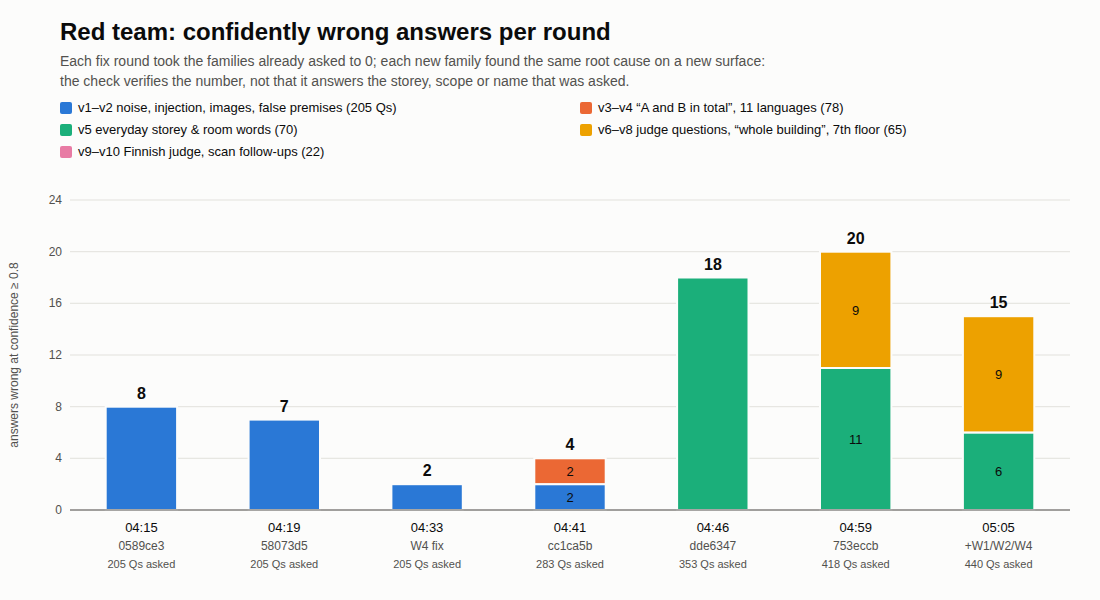
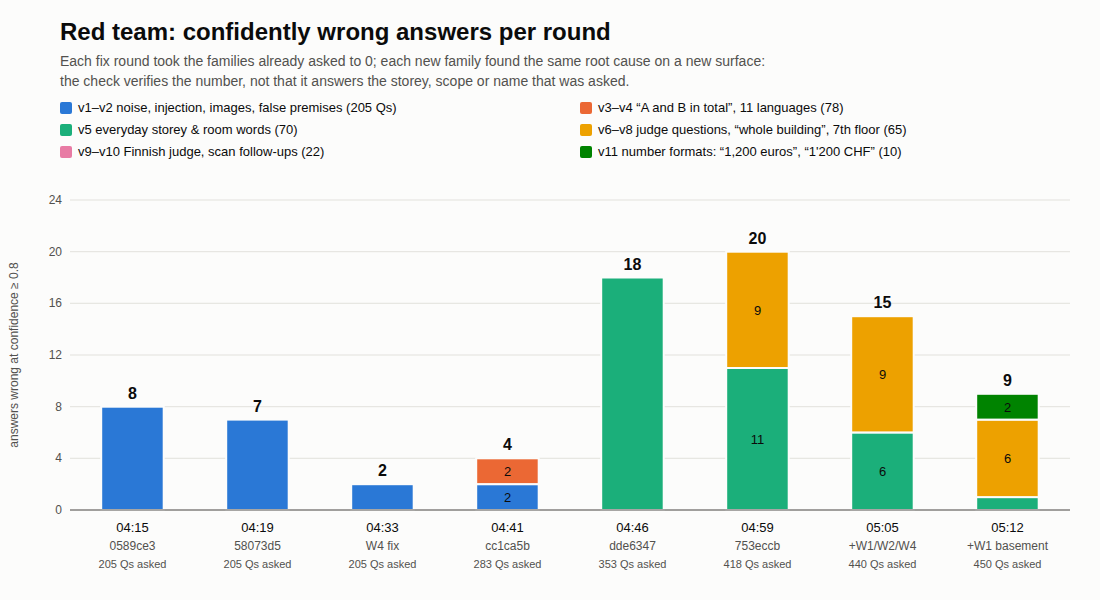
Q: pre-merge check #2 (0 lost, 11 won; 9 of 450 confident-wrong), chart round 05:12, verdict + slide 4 numbers

diff --git a/experiments/q/plot_rounds.py b/experiments/q/plot_rounds.py
@@ -3,15 +3,16 @@ Writes demo/redteam-rounds.svg (render to PNG with headless chromium, see REPORT
 conf >= 0.8 that is wrong, or any answer at >= 0.8 to a false-premise/unanswerable row, over the runs in REPORT.md.
 Palette: dataviz reference categorical slots 1-5, validated (light); every segment carries its value (relief rule)."""
 SURF, INK, INK2, GRID = "#fcfcfb", "#0b0b0b", "#52514e", "#e2e1dc"
-SER = ["#2a78d6", "#eb6834", "#1baf7a", "#eda100", "#e87ba4"]
+SER = ["#2a78d6", "#eb6834", "#1baf7a", "#eda100", "#e87ba4", "#008300"]
 FAMS = ["v1–v2 noise, injection, images, false premises (205 Qs)", "v3–v4 “A and B in total”, 11 languages (78)",
         "v5 everyday storey &amp; room words (70)", "v6–v8 judge questions, “whole building”, 7th floor (65)",
-        "v9–v10 Finnish judge, scan follow-ups (22)"]
-SIZES = [205, 78, 70, 65, 22]
+        "v9–v10 Finnish judge, scan follow-ups (22)", "v11 number formats: “1,200 euros”, “1'200 CHF” (10)"]
+SIZES = [205, 78, 70, 65, 22, 10]
 ROUNDS = [("04:15", "0589ce3"), ("04:19", "58073d5"), ("04:33", "W4 fix"), ("04:41", "cc1ca5b"), ("04:46", "dde6347"),
-          ("04:59", "753eccb"), ("05:05", "+W1/W2/W4")]
-DATA = [[8, None, None, None, None], [7, None, None, None, None], [2, None, None, None, None], [2, 2, None, None, None],
-        [0, 0, 18, None, None], [0, 0, 11, 9, None], [0, 0, 6, 9, 0]]
+          ("04:59", "753eccb"), ("05:05", "+W1/W2/W4"), ("05:12", "+W1 basement")]
+DATA = [[8, None, None, None, None, None], [7, None, None, None, None, None], [2, None, None, None, None, None],
+        [2, 2, None, None, None, None], [0, 0, 18, None, None, None], [0, 0, 11, 9, None, None], [0, 0, 6, 9, 0, None],
+        [0, 0, 1, 6, 0, 2]]
 W, H = 1100, 600
 L, R, T, B = 70, 30, 200, 90          # plot margins
 YMAX = 24

diff --git a/redteam/REPORT.md b/redteam/REPORT.md
@@ -20,7 +20,10 @@ caused by the perturbation, not by the drawing.
    Italian), a singular name matching 8 rooms (v5, open), a floor the building doesn't have (v8, open).
 3. **The owners fixed things fast and generally.** Every round was re-measured on the same rows (tables below):
    confident false-premise answers 7/24 → 0/24; "whole building" in SV/FR/ET/FI/PL 0/15 → 15/15 within an hour.
-4. **Still open on 753eccb (20 of 418 answered wrong at ≥ 0.8, all in v5–v8):** "basement" when the model calls it
+4. **Latest (05:13, night 753eccb + the owners' newest commits, pre-merge): 9 of 450 answered wrong at ≥ 0.8; 273 of
+   277 answers at ≥ 0.8 right.** Left: "1,200 euros" read as 1.2 by the IFC rules (bug 17, demo-visible), "the 7th
+   floor" of a 5-storey model, "how many floors" → 7, Finnish "kellarikerros", "whole building" on a one-floor plan.
+   *Before those commits, on 753eccb itself (20 of 418, all in v5–v8):* "basement" when the model calls it
    'KG' (6 languages → the sheet's storey at 0.88–0.98, W1), Italian "in tutto l'edificio" (3, W1), "How big is the
    Küche?" with several kitchens → silent sum at 0.98 (5, W2; fixed on night-W2 2254acb: 0.50 + "name the room"), "how many floors" → 7 incl. foundation and roof (W1),
    "whole building" on a one-floor plan and "the 7th floor" of a 5-storey model (5, W1/W2). On scans, unanswerable
@@ -473,6 +476,14 @@ many floors" → 7; v8 scope premises ×5.
 - **Fix:** a comma, dot, apostrophe or space followed by exactly three digits and then a non-digit is a thousands
   separator; one or two digits after a comma is a decimal. Same family as bug 9: the arithmetic is verified, the
   operand is not.
+
+## Pre-merge check #2 (05:13): night 753eccb + W1 cee4aa7 + W2 2254acb + W4 afc5be0 + R2 2db30c0 (scratch snapshot)
+All 450 rows, run `20261114-051156-pipeline-questions-ebdb` vs `98f0` (+ v11 `ccd8`): **0 answers lost, 11 won** —
+"basement" in EN/DE/NL/FR/SV → 'KG' 20 (at a deliberately modest 0.42), the Gdynia elevation sheet's basement 5 (0.80)
+and its room area 54.41; Italian "in tutto l'edificio" now the model total. Core 283: 96.5 %, 190/190 at ≥ 0.8, 0/24
+premises. All 450: **93.6 % scored, 273/277 right at ≥ 0.8**, $0.072 per 1,000. **9 confident-wrong left:** "1,200
+euros" / "€1,500" read as 1.2 / 1.5 (W1, bug 17), "7th / eighth floor" (W1), "how many floors" → 7 (W1), Finnish
+"kellarikerroksessa" (W1), one-floor "whole building" ×3 (W2).
 
 ## Cost under attack (05:12; bug 8 re-measured on run `20261114-050528-pipeline-questions-98f0`, 440 Qs)
 Overall $0.073 per 1,000 questions, but the **15 most expensive questions (3 % of rows) are 53 % of the cost**, and

diff --git a/demo/DEMO.md b/demo/DEMO.md
@@ -114,8 +114,9 @@ went to zero after each fix, and each new family found the same root cause somew
   the storey of the sheet on screen, confidently (12 of 20 storey rows, 12 of 12 SV/FR/IT/ET "whole building" rows).
   Same root cause, a new surface: the check verifies the number, not that it is about the place that was asked.
   **One round later** (night 753eccb, 05:00): a cross-language reading (as asked + translated, compared) fixed "whole
-  building" in 5 of 6 languages and half the storey words; 20 of 418 red-team answers are still confidently wrong
-  ("basement", Italian, ambiguous room names). Say the latest numbers; check they are in the test-2 build.
+  building" in 5 of 6 languages and half the storey words; with the owners' next commits (pre-merge check 05:13) the
+  basement, Italian and ambiguous-room cases are fixed too: **9 of 450 answers confidently wrong, 273 of 277 confident
+  answers right**. Say the latest numbers; check the commits are in the test-2 build.
 
 ### If a judge types their own question (measured 04:55 on dde6347, `redteam/REPORT.md` v6)
 - Esplanades IFC sheet — safe: "How many rooms / columns are on this floor?" (50 / 37), "How many doors are on the
